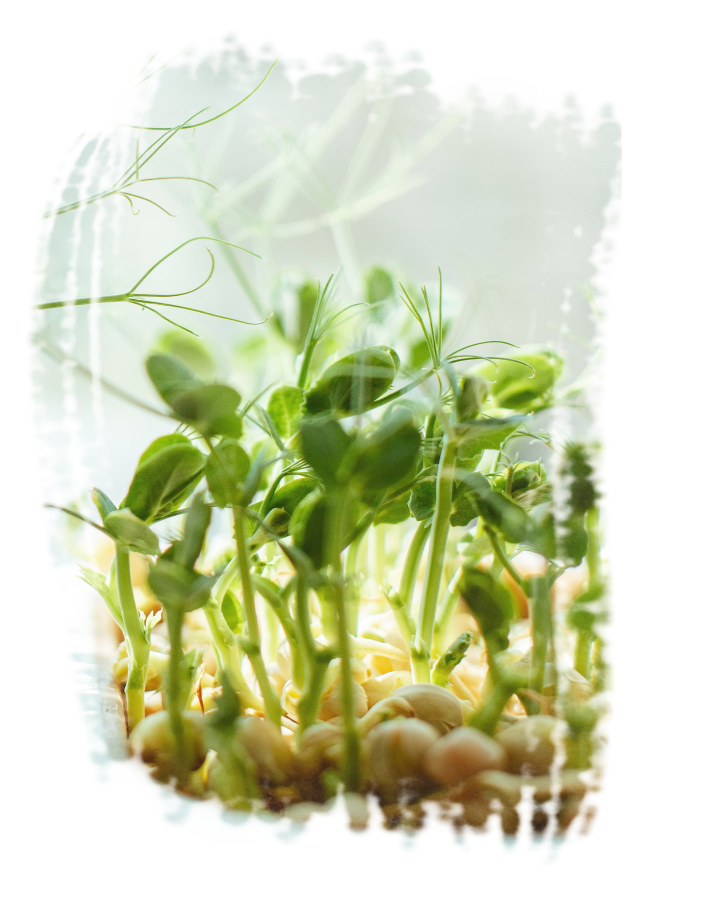
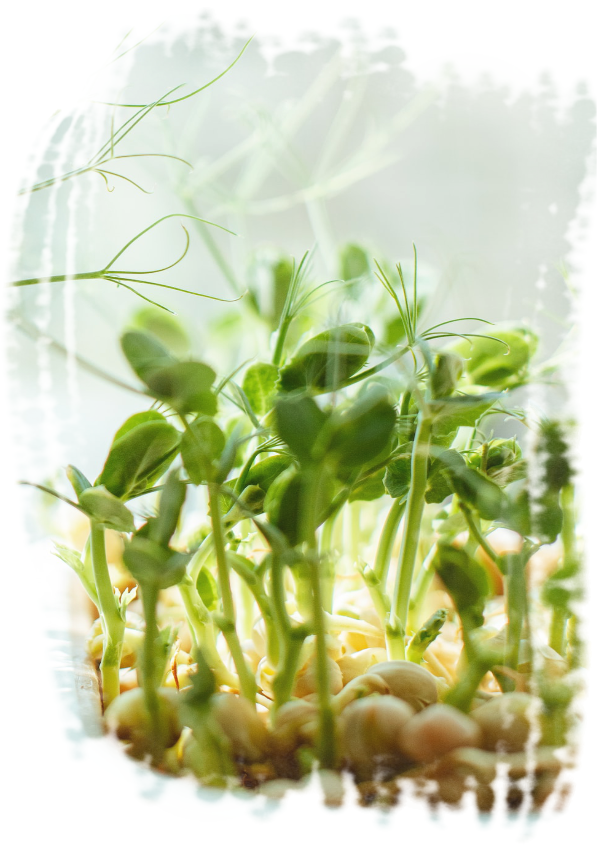
consultation mobile

diff --git a/styles/pages/consultation.css b/styles/pages/consultation.css
@@ -4,6 +4,8 @@
     display: flex;
     justify-content: center;
     align-items: center;
+    background-color: darkblue;
+    gap: 200px;
 }
 
 .container-left{
@@ -26,4 +28,55 @@
 
 .container-text-paragaraphes p{
     font-size: 18px;
+}
+
+.container img{
+    width: 100%;
+}
+
+@media screen and (max-width: 1600px) {
+    .container{
+        width: calc(100% - 300px);
+        padding: 50px 150px 0px 150px;
+        gap: 150px;
+    }
+}
+
+@media screen and (max-width: 1300px) {
+    .container{
+        width: calc(100% - 200px);
+        padding: 50px 100px 0px 100px;
+        gap: 100px;
+    }
+}
+
+@media screen and (max-width: 1200px) {
+    .container{
+        width: calc(100% - 300px);
+        padding: 100px 150px 0px 150px;
+        flex-direction: column;
+        gap: 50px;
+    }
+
+    .container-left{
+        width: 100%
+    }
+    
+    .container-right{
+        width: 100%;    
+    }
+}
+
+@media screen and (max-width: 800px) {
+    .container{
+        width: calc(100% - 200px);
+        padding: 100px 100px 0px 100px;
+    }
+}
+
+@media screen and (max-width: 800px) {
+    .container{
+        width: calc(100% - 100px);
+        padding: 100px 50px 0px 50px;
+    }
 }

diff --git a/pages/consultation.html b/pages/consultation.html
@@ -46,9 +46,6 @@
     </header>
     <main>
         <section class="container">
-            <div class="container-left">
-                <img src="../assets/jeune_pousse.png" alt="Jeune pousse">
-            </div>
             <div class="container-right">
                 <div class="container-text">
                     <h1>Pourquoi entreprendre un suivi nutritionnel ?</h1>
@@ -97,6 +94,9 @@
                         </p>
                     </div>
                 </div>
+            </div>
+            <div class="container-left">
+                <img src="../assets/jeune_pousse.png" alt="Jeune pousse">
             </div>
         </section>
     </main>
